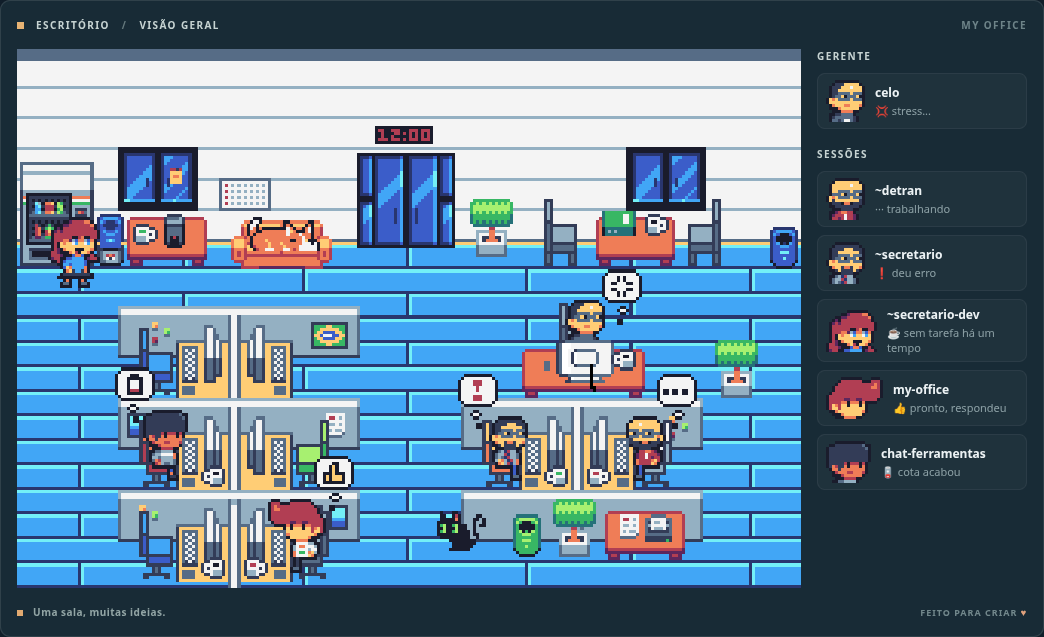
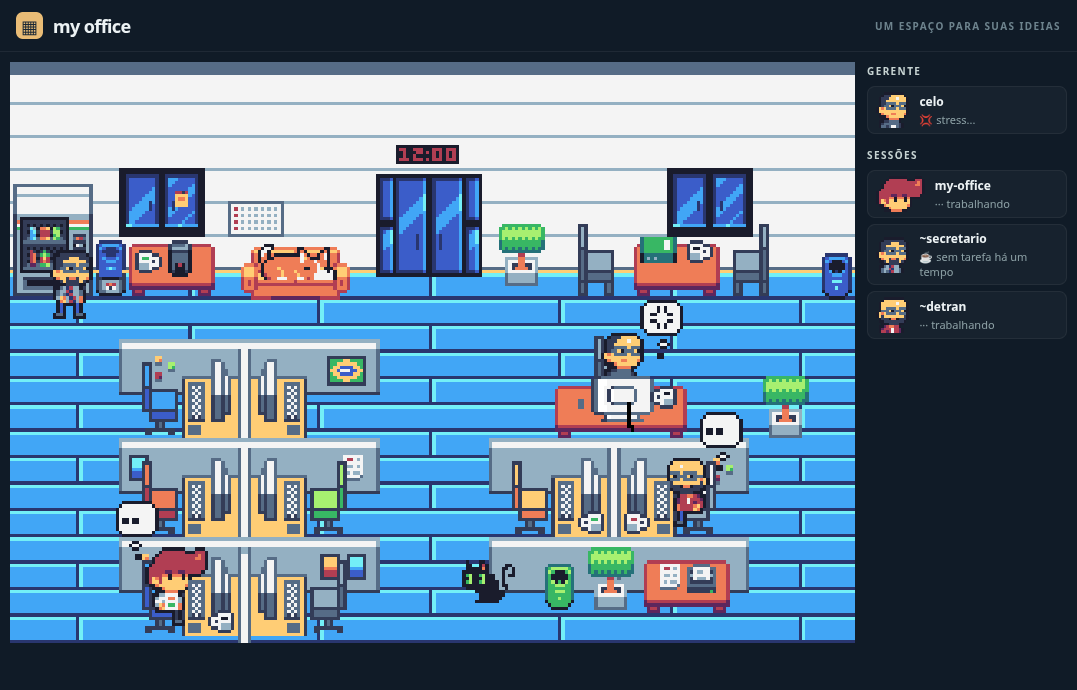
Página enxuta: só a barra do topo, a sala e o quadro de sessões
Sai o texto de boas-vindas, a caixa de capacidade, as barras em volta da
sala e o rodapé. A página ocupa a janela inteira, sem rolagem: a sala
cresce até onde couber mantendo a proporção, e o quadro fica ao lado (ou
embaixo, em janela mais alta que larga), com rolagem própria. Pensada
para abrir como webapp, sem barra de navegador.

diff --git a/src/style.css b/src/style.css
@@ -1,9 +1,31 @@
-:root{font-family:Inter,ui-sans-serif,system-ui,-apple-system,BlinkMacSystemFont,"Segoe UI",sans-serif;color:#ecf2f4;background:#101b27;font-synthesis:none}*{box-sizing:border-box}body{margin:0;min-width:320px}.app{min-height:100vh;background:radial-gradient(ellipse at 50% 60%,#1c3040 0,#13232f 45%,#101b27 85%)}.topbar{height:70px;border-bottom:1px solid #ffffff10;display:flex;align-items:center;justify-content:space-between;padding:0 7%;}.brand{font-weight:750;font-size:19px;letter-spacing:-.6px;display:flex;align-items:center;gap:10px}.brand-icon{display:grid;place-items:center;color:#182634;background:#e9bc76;font-size:20px;width:29px;height:29px;border-radius:7px}.top-label,.eyebrow,.scene-name,.scene-label,footer,.scene-bottom{font-size:10px;letter-spacing:1.4px;font-weight:700}.top-label{color:#6d838d}.workspace{max-width:1100px;margin:0 auto;padding:52px 28px 24px}.intro{display:flex;align-items:end;justify-content:space-between;gap:20px;margin-bottom:28px}.eyebrow{color:#dfac72;margin:0 0 12px}h1{font-size:clamp(27px,3.4vw,39px);letter-spacing:-1.4px;margin:0;font-weight:700}h1 span{color:#ecb779}.description{color:#94a8ae;margin:10px 0 0;font-size:14px}.capacity{display:flex;gap:11px;align-items:center;background:#ffffff08;border:1px solid #ffffff0d;padding:12px 16px;border-radius:8px;white-space:nowrap}.capacity-icon{font-size:22px;color:#e4b278}.capacity strong,.capacity small{display:block}.capacity strong{font-size:12px}.capacity small{font-size:11px;color:#8ca0a5;margin-top:3px}.scene-frame{background:#182b36;border:1px solid #ffffff1a;border-radius:10px;padding:0 16px;box-shadow:0 24px 80px #06101955;overflow:hidden}.scene-top,.scene-bottom{height:48px;display:flex;align-items:center;justify-content:space-between}.scene-name{color:#c6d3d2}.scene-dot{display:inline-block;background:#e7b374;width:7px;height:7px;margin-right:8px}.scene-divider{color:#63777b;padding:0 8px}.scene-label{color:#6d8388}#office{width:100%;line-height:0;background:#293a42;overflow:hidden}#office canvas{width:100%;height:auto;image-rendering:pixelated}.scene-bottom{color:#91a4a4;font-size:10px;letter-spacing:.5px;text-transform:none}.scene-bottom>span:last-child{font-size:9px;letter-spacing:1px;color:#71878b}.tiny-square{display:inline-block;width:6px;height:6px;background:#e2aa71;margin-right:7px}.heart{color:#e0a27d}footer{display:flex;justify-content:space-between;margin-top:24px;color:#70868a;letter-spacing:.3px;font-size:11px;font-weight:400}footer span:last-child{font-size:9px;letter-spacing:1px}@media(max-width:600px){.topbar{height:58px;padding:0 20px}.top-label{display:none}.workspace{padding:35px 14px 20px}.intro{align-items:start}.capacity{padding:8px}.capacity small,.capacity-icon{display:none}.description{font-size:13px}.scene-frame{padding:0 8px}.scene-top,.scene-bottom{height:38px}.scene-label,footer span:last-child{display:none}footer{font-size:10px}}
-.scene-body{display:flex;gap:16px;align-items:flex-start}.office-wrap{position:relative;flex:1;min-width:0}
-.tooltip{position:absolute;pointer-events:none;background:#101b27f0;border:1px solid #ffffff26;border-radius:6px;padding:6px 9px;display:flex;flex-direction:column;gap:2px;font-size:12px;white-space:nowrap;box-shadow:0 6px 20px #0008}.tooltip[hidden]{display:none}.tooltip span{color:#94a8ae;font-size:11px}
-.sessions{width:210px;flex-shrink:0}.sessions-title{margin:0 0 10px;font-size:10px;letter-spacing:1.4px;font-weight:700;color:#c6d3d2}
-.sessions ul{list-style:none;margin:0;padding:0;display:flex;flex-direction:column;gap:8px}.sessions li{display:flex;align-items:center;gap:10px;background:#ffffff08;border:1px solid #ffffff0d;border-radius:8px;padding:6px 8px}
-.sessions strong,.sessions small{display:block}.sessions strong{font-size:12px}.sessions small{font-size:11px;color:#8ca0a5;margin-top:2px}
-.session-face{image-rendering:pixelated;flex-shrink:0;width:auto;height:42px}.session-face.empty{display:grid;place-items:center;width:42px;background:#ffffff0d;border-radius:6px;color:#8ca0a5;font-weight:700}
-@media(max-width:860px){.scene-body{flex-direction:column}.sessions{width:100%}}
-#manager{margin-bottom:18px}
+/* Página enxuta: a barra do topo, a sala e o quadro de sessões, ocupando a janela inteira
+   (pensada para uma janela de webapp, sem barra de navegador). A sala cresce
+   até onde couber, mantendo a proporção; o quadro fica ao lado, com rolagem
+   própria, e desce para baixo da sala em janelas estreitas. */
+:root{font-family:Inter,ui-sans-serif,system-ui,-apple-system,BlinkMacSystemFont,"Segoe UI",sans-serif;color:#ecf2f4;background:#101b27;font-synthesis:none}
+*{box-sizing:border-box}
+html,body{margin:0;height:100%;overflow:hidden;background:#101b27}
+body{display:flex;flex-direction:column}
+.topbar{height:52px;flex-shrink:0;border-bottom:1px solid #ffffff10;display:flex;align-items:center;justify-content:space-between;padding:0 16px}
+.brand{font-weight:750;font-size:18px;letter-spacing:-.6px;display:flex;align-items:center;gap:10px}
+.brand-icon{display:grid;place-items:center;color:#182634;background:#e9bc76;font-size:18px;width:27px;height:27px;border-radius:7px}
+.top-label{font-size:10px;letter-spacing:1.4px;font-weight:700;color:#6d838d}
+.app{flex:1;min-height:0;display:flex;gap:12px;padding:10px}
+.office-wrap{position:relative;flex:1;min-width:0;min-height:0;line-height:0}
+#office{width:100%;height:100%}
+#office canvas{display:block;max-width:100%;max-height:100%;width:auto;height:auto;image-rendering:pixelated}
+.tooltip{position:absolute;pointer-events:none;background:#101b27f0;border:1px solid #ffffff26;border-radius:6px;padding:6px 9px;display:flex;flex-direction:column;gap:2px;font-size:12px;line-height:1.3;white-space:nowrap;box-shadow:0 6px 20px #0008}
+.tooltip[hidden]{display:none}
+.tooltip span{color:#94a8ae;font-size:11px}
+.sessions{width:200px;flex-shrink:0;overflow-y:auto}
+.sessions-title{margin:2px 0 8px;font-size:10px;letter-spacing:1.4px;font-weight:700;color:#c6d3d2}
+.sessions ul{list-style:none;margin:0;padding:0;display:flex;flex-direction:column;gap:6px}
+.sessions li{display:flex;align-items:center;gap:10px;background:#ffffff08;border:1px solid #ffffff0d;border-radius:8px;padding:5px 8px}
+.sessions strong,.sessions small{display:block}
+.sessions strong{font-size:12px}
+.sessions small{font-size:11px;color:#8ca0a5;margin-top:2px}
+.session-face{image-rendering:pixelated;flex-shrink:0;width:auto;height:36px}
+.session-face.empty{display:grid;place-items:center;width:36px;background:#ffffff0d;border-radius:6px;color:#8ca0a5;font-weight:700}
+#manager{margin-bottom:14px}
+@media(max-width:600px){.top-label{display:none}}
+@media(max-aspect-ratio:1/1){.app{flex-direction:column}.office-wrap{flex:none}.sessions{width:100%;flex:1}}

diff --git a/index.html b/index.html
@@ -7,13 +7,18 @@
   <title>My Office</title>
 </head>
 <body>
+  <header class="topbar"><div class="brand"><span class="brand-icon" aria-hidden="true">▦</span><span>my office</span></div><span class="top-label">UM ESPAÇO PARA SUAS IDEIAS</span></header>
   <main class="app">
-    <header class="topbar"><div class="brand"><span class="brand-icon" aria-hidden="true">▦</span><span>my office</span></div><span class="top-label">UM ESPAÇO PARA SUAS IDEIAS</span></header>
-    <section class="workspace" aria-labelledby="title">
-      <div class="intro"><div><p class="eyebrow">SEU ESPAÇO DE TRABALHO</p><h1 id="title">Bem-vindo ao escritório<span>.</span></h1><p class="description">Um cantinho para acompanhar quem está por aqui.</p></div><div class="capacity"><span class="capacity-icon" aria-hidden="true">▣</span><div><strong id="capacity">0 sessões</strong><small>Até 5 personagens na sala</small></div></div></div>
-      <div class="scene-frame"><div class="scene-top"><div class="scene-name"><span class="scene-dot"></span> ESCRITÓRIO <span class="scene-divider">/</span> VISÃO GERAL</div><span class="scene-label">MY OFFICE</span></div><div class="scene-body"><div class="office-wrap"><div id="office" role="img" aria-label="Escritório em pixel art; cada personagem representa uma sessão de agente aberta."></div><div id="tooltip" class="tooltip" hidden></div></div><aside class="sessions" aria-label="Sessões abertas"><p class="sessions-title">GERENTE</p><ul id="manager"></ul><p class="sessions-title">SESSÕES</p><ul id="sessions"></ul></aside></div><div class="scene-bottom"><span><span class="tiny-square"></span> Uma sala, muitas ideias.</span><span>FEITO PARA CRIAR <span class="heart">♥</span></span></div></div>
-      <footer><span>Um pequeno espaço para grandes projetos.</span><span>PIXEL OFFICE ASSETS POR 2DPIG</span></footer>
-    </section>
+    <div class="office-wrap">
+      <div id="office" role="img" aria-label="Escritório em pixel art; cada personagem representa uma sessão de agente aberta."></div>
+      <div id="tooltip" class="tooltip" hidden></div>
+    </div>
+    <aside class="sessions" aria-label="Sessões abertas">
+      <p class="sessions-title">GERENTE</p>
+      <ul id="manager"></ul>
+      <p class="sessions-title">SESSÕES</p>
+      <ul id="sessions"></ul>
+    </aside>
   </main>
   <script type="module" src="/src/main.js"></script>
 </body>

diff --git a/src/main.js b/src/main.js
@@ -280,7 +280,6 @@ function face(skin) {
 }
 
 const panel = document.querySelector('#sessions');
-const capacity = document.querySelector('#capacity');
 function statusText(status) {
   const st = STATUS[status];
   return `${st.emoji} ${st.label}`;
@@ -307,7 +306,6 @@ function renderPanel() {
       return card(skin, name, text);
     }),
   );
-  if (capacity) capacity.textContent = `${sessions.length} ${sessions.length === 1 ? 'sessão' : 'sessões'}`;
 }
 
 // ---------------------------------------------------------------- tooltip
